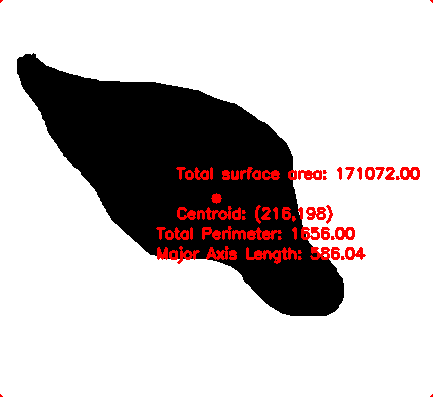
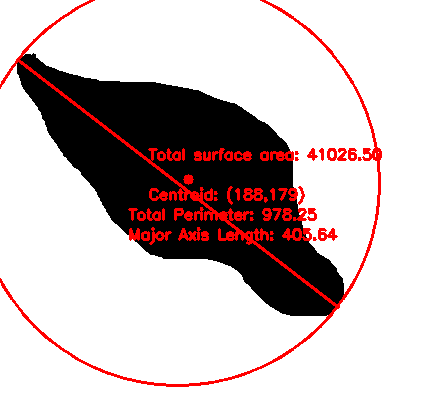
final push
code with output images after calculations and visualization.

diff --git a/code.py b/code.py
@@ -9,10 +9,6 @@ output_folder = "output"
 if not os.path.exists(output_folder):
     os.makedirs(output_folder)
 
-# Function to calculate total surface area of a contour
-def calculate_surface_area(contour):
-    return cv2.contourArea(contour)
-
 # Function to process an image
 def process_image(filename):
     # Read the image
@@ -21,13 +17,16 @@ def process_image(filename):
     # Convert the image to grayscale
     gray = cv2.cvtColor(img, cv2.COLOR_BGR2GRAY)
 
-    # Apply thresholding to segment particles (adjust threshold value as needed)
-    _, thresh = cv2.threshold(gray, 128, 255, cv2.THRESH_BINARY)
+    # Invert the image to make black figures on a white background
+    inverted = cv2.bitwise_not(gray)
+
+    # Apply thresholding to segment the black figures (adjust threshold value as needed)
+    _, thresh = cv2.threshold(inverted, 128, 255, cv2.THRESH_BINARY)
 
     # Find contours in the binary image
     contours, _ = cv2.findContours(thresh, cv2.RETR_EXTERNAL, cv2.CHAIN_APPROX_SIMPLE)
 
-    # Draw the smallest encapsulating circle, major axis, total surface area, total perimeter, and centroids for each particle
+    # Draw the calculations for each black figure on the image
     img_processed = img.copy()
     for contour in contours:
         # Calculate the minimum enclosing circle
@@ -36,37 +35,27 @@ def process_image(filename):
         radius = int(radius)
 
         # Calculate the surface area
-        area = calculate_surface_area(contour)
+        area = cv2.contourArea(contour)
 
-        ellipse = None
-        # Check if there are at least 5 points to fit an ellipse
-        if len(contour) >= 5:
-        # Fit an ellipse to the contour
-            ellipse = cv2.fitEllipse(contour)
-        if ellipse is not None:
-        # Calculate the major axis
-            major_axis = max(ellipse[1])
+        # Calculate the major axis as the longest distance between any two points
+        #points = contour.squeeze()
+        #distances = [((p1[0] - p2[0])**2 + (p1[1] - p2[1])**2)**0.5 for p1 in points for p2 in points]
+        #major_axis = max(distances)
+        # Calculate the major axis points
+        points = contour.squeeze()
+        max_distance = 0
+        major_axis_points = None
+        for i, p1 in enumerate(points):
+            for p2 in points[i + 1:]:
+                distance = np.linalg.norm(p1 - p2)
+                if distance > max_distance:
+                    max_distance = distance
+                    major_axis_points = p1, p2
 
-        else:
-            # If there are fewer than 5 points to fit an ellipse, estimate major axis as the longest distance between any two points
-            points = np.squeeze(contour)  # Remove extra dimensions
-            distances = [np.linalg.norm(p1 - p2) for p1 in points for p2 in points]
-            major_axis = max(distances)
-
-        # Draw the major axis
-        #if major_axis > 0:
-        cv2.ellipse(img_processed, ellipse, (0, 0, 255), 2)  # Red ellipse
-
-        # Display the major axis length as text
-        M = cv2.moments(contour)
-        cx = int(M['m10'] / M['m00'])
-        cy = int(M['m01'] / M['m00'])
-        cv2.putText(img_processed, f"Major Axis Length: {major_axis:.2f}", (cx - 60, cy + 60),
-                    cv2.FONT_HERSHEY_SIMPLEX, 0.5,
-                    (0, 0, 255), 2)
-        #else:
-        #    major_axis = 0
-
+        # Draw a line representing the major axis
+        if major_axis_points is not None:
+            p1, p2 = major_axis_points
+            cv2.line(img_processed, tuple(p1), tuple(p2), (0, 0, 255), 2)  # Red line
         # Calculate the perimeter of the contour
         perimeter = cv2.arcLength(contour, closed=True)
 
@@ -78,22 +67,17 @@ def process_image(filename):
 
         # Draw the minimum enclosing circle
         cv2.circle(img_processed, center, radius, (0, 0, 255), 2)  # Red circle
-
-
-
-        # Display the total surface area as text
-        cv2.putText(img_processed, f"Total surface area: {area:.2f}", (cx - 40, cy - 20), cv2.FONT_HERSHEY_SIMPLEX, 0.5, (0, 0, 255), 2)
-
-        # Display the total perimeter as text
-        cv2.putText(img_processed, f"Total Perimeter: {perimeter:.2f}", (cx - 60, cy + 40), cv2.FONT_HERSHEY_SIMPLEX, 0.5, (0, 0, 255), 2)
-
         # Draw a marker at the centroid
         cv2.circle(img_processed, centroid, 5, (0, 0, 255), -1)  # Red circle
-        # Display the centroid as text
-        cv2.putText(img_processed, f"Centroid: ({cx},{cy})", (cx - 40, cy + 20), cv2.FONT_HERSHEY_SIMPLEX, 0.5,
-                    (0, 0, 255), 2)
 
-    # Save the processed image with analysis
+
+        # Display the calculations as text
+        cv2.putText(img_processed, f"Total surface area: {area:.2f}", (cx - 40, cy - 20), cv2.FONT_HERSHEY_SIMPLEX, 0.5, (0, 0, 255), 2)
+        cv2.putText(img_processed, f"Total Perimeter: {perimeter:.2f}", (cx - 60, cy + 40), cv2.FONT_HERSHEY_SIMPLEX, 0.5, (0, 0, 255), 2)
+        cv2.putText(img_processed, f"Centroid: ({cx},{cy})", (cx - 40, cy + 20), cv2.FONT_HERSHEY_SIMPLEX, 0.5, (0, 0, 255), 2)
+        cv2.putText(img_processed, f"Major Axis Length: {max_distance:.2f}", (cx - 60, cy + 60),cv2.FONT_HERSHEY_SIMPLEX, 0.5,(0, 0, 255), 2)
+
+    # Save the processed image with calculations
     output_filename = os.path.join(output_folder, os.path.basename(filename))
     cv2.imwrite(output_filename, img_processed)
 
